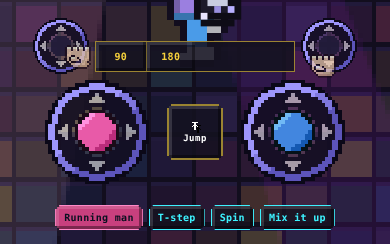
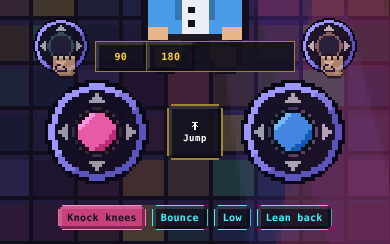
v1.82.123: seamless turns mid-dance (pose eases across facing/move changes; spin holds the steering stick's dance input)
Claude-Session: https://claude.ai/code/session_016UFqQURpRfPWWY9wcszACh

diff --git a/venue.html b/venue.html
@@ -27,15 +27,15 @@ body.chat-typing #chatLogBtn{display:none}
 </style>
 
 <script src="https://cdnjs.cloudflare.com/ajax/libs/tone/14.8.49/Tone.js"></script>
-<script src="px8.js?v=1.82.122"></script>
-<script src="tune.js?v=1.82.122"></script>
-<script src="gfx.js?v=1.82.122"></script>
-<script src="art.js?v=1.82.122"></script>
-<script src="qr.js?v=1.82.122"></script>
-<script src="voice.js?v=1.82.122"></script>
-<script src="instruments.js?v=1.82.122"></script>
-<script src="kart.js?v=1.82.122"></script>
-<script src="explain.js?v=1.82.122"></script>
+<script src="px8.js?v=1.82.123"></script>
+<script src="tune.js?v=1.82.123"></script>
+<script src="gfx.js?v=1.82.123"></script>
+<script src="art.js?v=1.82.123"></script>
+<script src="qr.js?v=1.82.123"></script>
+<script src="voice.js?v=1.82.123"></script>
+<script src="instruments.js?v=1.82.123"></script>
+<script src="kart.js?v=1.82.123"></script>
+<script src="explain.js?v=1.82.123"></script>
 <link rel="preconnect" href="https://fonts.googleapis.com"><link rel="preconnect" href="https://fonts.gstatic.com" crossorigin><link href="https://fonts.googleapis.com/css2?family=Silkscreen:wght@400;700&display=swap" rel="stylesheet">
 <style>
 *{margin:0;padding:0;box-sizing:border-box}
@@ -3538,7 +3538,7 @@ var GAME=(function(){
   var fStyle=0,fSub=0,fCtl=[0,0,0,0],fHeld=[null,null],fdBuilt=false,fHand=[null,null],fHandP=[null,null],fBack=0;   /* fBack: quarter turns from facing front (0 front, 1 right, 2 away, 3 left): 90 and 180 turn you and you stay that way. Sent as fd.b: 1 = away, 2 = right, 3 = left (1 matches the old turned-round flag) */
   var shufT=0,shufArm=true,shufSpin=false;
   window.ukFdStick=function(x,y){window.__fdStick=x===null?null:[x,y];};window.ukShuf=function(){return{spin:mySpin.on,shufSpin:shufSpin,vel:+mySpin.vel.toFixed(2),arm:shufArm,t:shufT,fd:fdState(),xy:me()?[+me().tx.toFixed(3),+me().ty.toFixed(3)]:null};};   /* tests */   /* Shuffle: stick out sideways = the T-step that way (facing front); stick to the top edge = a turnaround spin, once per push */
-  function fdState(){if(fStyle<=0)return null;var o={s:fStyle,m:fStyle===9&&(shufT||shufSpin)?1:fSub,c:fCtl.map(function(v,i){if(fStyle===9&&i===0&&!shufT)v*=0.6;return mySpin.on&&i>=2?0:Math.round(v*100);})};   /* the Shuffle reads the left stick like the games do (x0.6 unless T-stepping) */   /* while you spin, the right stick only keeps the spin going: no moves, no bounce */if(fHand[0]!==null||fHand[1]!==null)o.h=[fHand[0],fHand[1]];if(fBack)o.b=[0,2,1,3][fBack];if(mySpin.on)o.sp=[Math.round((mySpin.ang%(2*Math.PI))*100),Math.round(mySpin.vel*10)];return o;}   /* h: a hand you are holding, as an angle x100 (0 = hanging down, 157 = out to the side, 314 = straight up) */
+  function fdState(){if(fStyle<=0)return null;var o={s:fStyle,m:fStyle===9&&(shufT||shufSpin)?1:fSub,c:fCtl.map(function(v,i){if(fStyle===9&&i===0&&!shufT)v*=0.6;if(mySpin.on&&mySpin.hold&&(mySpin.left||shufSpin?i<2:i>=2))v=mySpin.hold[i];return Math.round(v*100);})};   /* while you spin, the stick steering it holds the dance where it was (no jump into or out of the spin) */   /* the Shuffle reads the left stick like the games do (x0.6 unless T-stepping) */   /* while you spin, the right stick only keeps the spin going: no moves, no bounce */if(fHand[0]!==null||fHand[1]!==null)o.h=[fHand[0],fHand[1]];if(fBack)o.b=[0,2,1,3][fBack];if(mySpin.on)o.sp=[Math.round((mySpin.ang%(2*Math.PI))*100),Math.round(mySpin.vel*10)];return o;}   /* h: a hand you are holding, as an angle x100 (0 = hanging down, 157 = out to the side, 314 = straight up) */
   function beatPos(){var b=BEAT.get(),now=performance.now();return b.known&&b.period>0?(now-b.t0)/b.period:now/500;}
   /* Move queue: line up dances and moves ahead of time. When it's your turn in the middle, they play in order and
      split your turn evenly between them; the one on now is lit. Kept on this device. */
@@ -3761,7 +3761,7 @@ var GAME=(function(){
   /* let go of a dot and it drifts back to the middle */
   /* your own spin: it starts with the button, slows down on its own, and swinging the right stick round (either way) keeps it going and speeds it up */
   var mySpin={on:false,ang:0,vel:0,pa:null,t:0};
-  function spinStart(k){var turns={spin:1,twirl:2,spinmove:1.5}[k]||1;mySpin.on=true;mySpin.ang=0;mySpin.vel=turns*6.2*1.25;mySpin.pa=null;mySpin.t=performance.now();}
+  function spinStart(k){var turns={spin:1,twirl:2,spinmove:1.5}[k]||1;mySpin.hold=fCtl.slice();mySpin.on=true;mySpin.ang=0;mySpin.vel=turns*6.2*1.25;mySpin.pa=null;mySpin.t=performance.now();}
   function spinStep(now){
     if(!mySpin.on)return;var dt=Math.min(0.1,(now-mySpin.t)/1000);mySpin.t=now;
     if(shufSpin&&fStyle!==9)shufSpin=false;
@@ -6997,7 +6997,7 @@ var FIG=(function(){
   window.ukFig=function(){var p=pos(),sg=F.segAt(P,p);return{on:on,seg:sg&&sg.k,score:score,streak:streak,pump:+pump.toFixed(2),spin:+spin.vel.toFixed(1),jump:jump&&jump.kind,best:+best.toFixed(2),card:(document.querySelector("#figUI .fgCard.on b")||{}).textContent||"",prompt:(document.querySelector("#figUI .fgPrompt b")||{}).textContent||"",plan:P&&P.segs.map(function(s){return s.k+" "+Math.round(s.t0/100)/10;})};};
   return{start:start,stop:stop,tick:tick,press:press,draw:draw,wire:wire,looks:looks,fd:fd,faceOf:faceOf,spinLook:spinLook,get on(){return on;}};
 })();
-var AVDIR=0;   /* which way avatars face when drawn (0 front, 1 right, 2 back, 3 left): the kart game turns its drivers */
+var AVDIR=0,AVBLEND={};   /* which way avatars face when drawn (0 front, 1 right, 2 back, 3 left): the kart game turns its drivers */
 /* Mars Rally (kart.js) plugs into the page here */
 KART.bind({
   me:function(){return myId&&viewers[myId]||null;},
@@ -9247,7 +9247,7 @@ var MENUMUSIC=(function(){
   window.ukMenuMusic=function(){return{ctx:ac?ac.state:null,started:started,muted:muted,vol:+vol.toFixed(3),paused:a?a.paused:null,src:a?a.src:null,menu:menuOn(),want:want(),track:LIST[cur],gain:!!gn,plain:plain,heal:heal,t:a?+a.currentTime.toFixed(1):0};};
   return{get on(){return started;}};
 })();
-var PAGE_VERSION="1.82.122",SERVER_VERSION="";
+var PAGE_VERSION="1.82.123",SERVER_VERSION="";
 /* Staying up to date. Phones (most of all a home-screen app on iPhone) keep their own copy of this page and can open an old
    one even after a new version is out. On opening, when the app comes back to the front, and from the Check for update
    button, ask the site for the page with caching off and compare its version number with ours. Newer: on first open (or
@@ -9729,6 +9729,15 @@ function drawAvatar(x,y,color,name,scale,isPerf,isPlaying,moving,dance,seed,isMe
   if(AVO){var ro=AVO.r,eo=AVO.e;
     if(ro){bob+=ro.lift||0;if(ro.armL!==undefined)armL=ro.armL;if(ro.armR!==undefined)armR=ro.armR;if(ro.legL!==undefined)legL=ro.legL;if(ro.legR!==undefined)legR=ro.legR;if(ro.mouth)mouth=true;if(ro.alL)alL=ro.alL;if(ro.alR)alR=ro.alR;if(ro.head!==undefined)hdA=ro.head;if(ro.dx)dxs+=ro.dx;if(ro.lgL)lgL=ro.lgL;if(ro.lgR)lgR=ro.lgR;if(ro.rot!==undefined)rot=ro.rot;}
     if(eo){var ek=eo.k;bob+=eo.lift;rot=rot*(1-ek)+eo.rot;if(!ro){armL=armL*(1-ek)+eo.armL*ek;armR=armR*(1-ek)+eo.armR*ek;}legL=legL*(1-ek)+eo.legL*ek;legR=legR*(1-ek)+eo.legR*ek;}}
+  /* turning mid-dance (the 90 / 180 buttons, a stick spin, walking round) or switching move: ease from the pose you were in to the
+     new one over a sixth of a second instead of jumping, so the step carries straight on through the turn. The dance's own beat is
+     shared by every facing, so it stays on the same step; this smooths only the change of view or move */
+  if(fd&&dance===4&&!isPerf){var bkey=(isMe?"me":(name||"")+"|"+(seed||0)),TB=AVBLEND[bkey]||(AVBLEND[bkey]={}),nowB=performance.now(),
+      sigB=AVDIR+"|"+fd.s+"/"+fd.m+"|"+(typeof sideMir!=="undefined"&&sideMir?1:0),curB=[armL,armR,legL,legR,lgL,lgR,bob,dxs];
+    if(TB.sig!==undefined&&TB.sig!==sigB&&TB.last&&nowB-TB.at<250){TB.from=TB.last.slice();TB.t0=nowB;}
+    TB.sig=sigB;TB.at=nowB;
+    if(TB.from&&nowB-TB.t0<170){var kB=(nowB-TB.t0)/170;kB=kB*kB*(3-2*kB);curB=curB.map(function(v,i){return TB.from[i]+(v-TB.from[i])*kB;});armL=curB[0];armR=curB[1];legL=curB[2];legR=curB[3];lgL=curB[4];lgR=curB[5];bob=curB[6];dxs=curB[7];}
+    TB.last=curB;}
   var sxv=AVO&&AVO.r&&AVO.r.sx!==undefined?AVO.r.sx:1;var sko=AVO&&AVO.sk;if(sko){bob+=sko.lift;if(sko.rot)rot=sko.rot;}      /* on the rink: up in the air, or flat out */
   /* soft elbows on freely posed arms (not the robot, not a move that shapes its own arms) */
   var bnd=null;if(flex&&alL===undefined&&alR===undefined&&ART.elbows){var fk=(name||"")+"|"+(seed||0),fm=AVFLEX[fk]||(AVFLEX[fk]={});bnd=ART.elbows(armL,armR,fm,performance.now());}
@@ -10255,7 +10264,7 @@ updHudBR();
 }
 })();
 </script>
-<script src="lab.js?v=1.82.122"></script>
+<script src="lab.js?v=1.82.123"></script>
 <script>(function(){var v=document.getElementById("venue");function ap(){if(v)v.style.filter=GFX.filter();}GFX.onChange(ap);ap();})();</script>
 </body>
 </html>

diff --git a/art.js b/art.js
@@ -2949,6 +2949,6 @@ theirs.at=id;add(100,id);ev.push({k:"take",id:id,t:t});}
       mem.t=now;mem.aL=aL;mem.aR=aR;
       bL-=Math.max(-0.55,Math.min(0.55,(mem.vL||0)*0.05));bR-=Math.max(-0.55,Math.min(0.55,(mem.vR||0)*0.05));}
     return[bL,bR];}
-  return{elbows:elbows,BALLSIM:BALLSIM,neonOf:function(L){return NEON?neonCol(L):null;},SWIM:SWIMX,BAND:BANDX,emoteIcon:emoteIcon,EMOTES:["hearts","bigheart","clap","exclaim","confused","happy","excited","wow","omg","surprised"],UI:UI,PX:PX,MOSH:MOSHX,FIG:FIG,CTF:CTF,face8:face8,get neon(){return !!NEON;},setForce:function(f){FORCE=f||null;},get forcing(){return !!FORCE;},SKI:SK,PIPE:PP,KEEPY:{TYPES:KTYPES,make:keepyMake,advance:keepyAdvance,hit:keepyHit,draw:function(g,objs,P,sc,now){objs.forEach(function(o){withAdj("prop:"+o.type,g,function(){keepyDraw(g,[o],P,sc,now);});});}},rink:function(g,G0,now,k,ice){return withAdj(ice?"prop:ice":"prop:rink",g,function(){return rink(g,G0,now,k,ice);});},rinkGeom:rinkGeom,walkStep:walkStep,walkPose:walkPose,footShadow:footShadow,keyPad:keyPad,keyPadSpot:keyPadSpot,VERSION:"1.82.122",REACTS:REACTS,REACT_MS:REACT_MS,reactPose:reactPose,reactFx:reactFx,envPose:envPose,envFx:envFx,waterY:waterY,crowdPose:crowdPose,follower:follower,primeFx:primeFx,jumboFrame:jumboFrame,crowdFx:crowdFx,crowdLift:crowdLift,CROWD_MS:CROWD_MS,CROWD_KINDS:CROWD_KINDS,fxBack:fxBack,fxFront:fxFront,FX_DEFAULT:FX_DEFAULT,DANCES:DANCES,dance:dance,danceMove:danceMove,base:danceBase,DTWEAK:DTWEAK,maker:maker,drawChar:drawChar,wormPose:function(ph){return wPose(ph,0,0);},joints:joints,LIMB:LIMB,pixText:pixText,nameTag:nameTag,botIcon:botIcon,scene:scene,sceneP:sceneP,keyboard:function(g,x,y,p,l,c){return withAdj("prop:keyboard",g,function(){var r=PAINT.holes("keyboard",g,x,y,p,function(gg){return keyboard(PAINT.replaced("keyboard")?PAINT.dummy():gg,x,y,p,l,c);});PAINT.at(g,"keyboard",x,y,p);return r;});},micStand:function(g,x,y,p){return withAdj("prop:mic",g,function(){var r=PAINT.holes("mic",g,x,y,p,function(gg){return micStand(PAINT.replaced("mic")?PAINT.dummy():gg,x,y,p);});PAINT.at(g,"mic",x,y,p);return r;});},reloadAdj:adjLoad,paint:PAINT,isolate:function(p){ISO=p||null;},hideChars:function(b){HIDECHAR=!!b;},noAdj:function(b){NOADJ=!!b;},withAdj:withAdj,
+  return{elbows:elbows,BALLSIM:BALLSIM,neonOf:function(L){return NEON?neonCol(L):null;},SWIM:SWIMX,BAND:BANDX,emoteIcon:emoteIcon,EMOTES:["hearts","bigheart","clap","exclaim","confused","happy","excited","wow","omg","surprised"],UI:UI,PX:PX,MOSH:MOSHX,FIG:FIG,CTF:CTF,face8:face8,get neon(){return !!NEON;},setForce:function(f){FORCE=f||null;},get forcing(){return !!FORCE;},SKI:SK,PIPE:PP,KEEPY:{TYPES:KTYPES,make:keepyMake,advance:keepyAdvance,hit:keepyHit,draw:function(g,objs,P,sc,now){objs.forEach(function(o){withAdj("prop:"+o.type,g,function(){keepyDraw(g,[o],P,sc,now);});});}},rink:function(g,G0,now,k,ice){return withAdj(ice?"prop:ice":"prop:rink",g,function(){return rink(g,G0,now,k,ice);});},rinkGeom:rinkGeom,walkStep:walkStep,walkPose:walkPose,footShadow:footShadow,keyPad:keyPad,keyPadSpot:keyPadSpot,VERSION:"1.82.123",REACTS:REACTS,REACT_MS:REACT_MS,reactPose:reactPose,reactFx:reactFx,envPose:envPose,envFx:envFx,waterY:waterY,crowdPose:crowdPose,follower:follower,primeFx:primeFx,jumboFrame:jumboFrame,crowdFx:crowdFx,crowdLift:crowdLift,CROWD_MS:CROWD_MS,CROWD_KINDS:CROWD_KINDS,fxBack:fxBack,fxFront:fxFront,FX_DEFAULT:FX_DEFAULT,DANCES:DANCES,dance:dance,danceMove:danceMove,base:danceBase,DTWEAK:DTWEAK,maker:maker,drawChar:drawChar,wormPose:function(ph){return wPose(ph,0,0);},joints:joints,LIMB:LIMB,pixText:pixText,nameTag:nameTag,botIcon:botIcon,scene:scene,sceneP:sceneP,keyboard:function(g,x,y,p,l,c){return withAdj("prop:keyboard",g,function(){var r=PAINT.holes("keyboard",g,x,y,p,function(gg){return keyboard(PAINT.replaced("keyboard")?PAINT.dummy():gg,x,y,p,l,c);});PAINT.at(g,"keyboard",x,y,p);return r;});},micStand:function(g,x,y,p){return withAdj("prop:mic",g,function(){var r=PAINT.holes("mic",g,x,y,p,function(gg){return micStand(PAINT.replaced("mic")?PAINT.dummy():gg,x,y,p);});PAINT.at(g,"mic",x,y,p);return r;});},reloadAdj:adjLoad,paint:PAINT,isolate:function(p){ISO=p||null;},hideChars:function(b){HIDECHAR=!!b;},noAdj:function(b){NOADJ=!!b;},withAdj:withAdj,
     looks:{OPTS:OPTS,KEYS:KEYS,count:count,pack:pack,unpack:unpack,random:random,fromColor:fromColor,topColor:topColor,colOf:colOf,SKIN:SKIN,HAIRCOL:HAIRCOL,CLOTH:CLOTH},shade:shade};
 })();

diff --git a/index.html b/index.html
@@ -28,13 +28,13 @@
 </style>
 
 <script src="https://cdnjs.cloudflare.com/ajax/libs/tone/14.8.49/Tone.js"></script>
-<script src="gfx.js?v=1.82.122"></script>
-<script src="px8.js?v=1.82.122"></script>
-<script src="art.js?v=1.82.122"></script>
-<script src="qr.js?v=1.82.122"></script>
-<script src="voice.js?v=1.82.122"></script>
-<script src="instruments.js?v=1.82.122"></script>
-<script src="kart.js?v=1.82.122"></script>
+<script src="gfx.js?v=1.82.123"></script>
+<script src="px8.js?v=1.82.123"></script>
+<script src="art.js?v=1.82.123"></script>
+<script src="qr.js?v=1.82.123"></script>
+<script src="voice.js?v=1.82.123"></script>
+<script src="instruments.js?v=1.82.123"></script>
+<script src="kart.js?v=1.82.123"></script>
 <link rel="preconnect" href="https://fonts.googleapis.com"><link rel="preconnect" href="https://fonts.gstatic.com" crossorigin><link href="https://fonts.googleapis.com/css2?family=Silkscreen:wght@400;700&display=swap" rel="stylesheet">
 <style>
 *{margin:0;padding:0;box-sizing:border-box}
@@ -5003,7 +5003,7 @@ document.getElementById("liveStop").onclick=function(){endLive();};
 /* your own playing, for the lights that follow it (Show tab), in your previews and stage view */
 /* the version label at the bottom of the sidebar: this page's version, a warning if a cached script is older,
    and the server's version once you're live (so you can tell Render has the new build) */
-var PAGE_VERSION="1.82.122",SERVER_VERSION="";
+var PAGE_VERSION="1.82.123",SERVER_VERSION="";
 /* Staying up to date. Phones (most of all a home-screen app on iPhone) keep their own copy of this page and can open an old
    one even after a new version is out. On opening, when the app comes back to the front, and from the Check for update
    button, ask the site for the page with caching off and compare its version number with ours. Newer: on first open (or

diff --git a/instruments.js b/instruments.js
@@ -541,5 +541,5 @@
       if(s2t.on&&(st.now||Date.now())<s2t.t0)s2t.on=false;
       draw(g,x+X[i],y+Y[i],p*S[i],ART.looks.random(101+i*17),kinds[i],s2t);}
   }
-  ART.INST={section:section,drawBand:drawBand,kindOf:kindOf,draw:function(g,x,y,p,look,kind,st){CUR_LOOK=look;return ART.withAdj("inst:"+kind,g,function(){var r=ART.paint.holes?ART.paint.holes("inst:"+kind,g,x,y,p,function(gg){return draw(ART.paint.replaced("inst:"+kind)?ART.paint.dummy():gg,x,y,p,look,kind,st);}):draw(g,x,y,p,look,kind,st);ART.paint.at(g,"inst:"+kind,x,y,p);return r;});},KINDS:KINDS,VERSION:"1.82.122"};
+  ART.INST={section:section,drawBand:drawBand,kindOf:kindOf,draw:function(g,x,y,p,look,kind,st){CUR_LOOK=look;return ART.withAdj("inst:"+kind,g,function(){var r=ART.paint.holes?ART.paint.holes("inst:"+kind,g,x,y,p,function(gg){return draw(ART.paint.replaced("inst:"+kind)?ART.paint.dummy():gg,x,y,p,look,kind,st);}):draw(g,x,y,p,look,kind,st);ART.paint.at(g,"inst:"+kind,x,y,p);return r;});},KINDS:KINDS,VERSION:"1.82.123"};
 })();

diff --git a/server/server.js b/server/server.js
@@ -508,7 +508,7 @@ var TUG_AT = 0, TUG_MS = 10000;
 /* voice between songs: how many people can talk at once in a room (everyone connects to everyone, so keep it small) */
 var VOICE_MAX = +process.env.VOICE_MAX || 8;   /* talkers (mic on) at once; anyone can listen */   /* the walls meet right on the drop (the charge starts 0.8 s before it) */
 /* the build, shown at the bottom of both pages so you can tell which version is running (bump it with each release) */
-var VERSION = "1.82.122";
+var VERSION = "1.82.123";
 /* where this server runs: Render sets RENDER=true; anything else is self-hosted (UK_HOST can name it) */
 var HOSTED = process.env.RENDER ? "render" : "self";
 var HOST_NAME = String(process.env.UK_HOST || "").slice(0, 40);

diff --git a/gfx.html b/gfx.html
@@ -103,9 +103,9 @@ button.pe{background:#1f5f6e;box-shadow:inset -3px -3px 0 #0f3640,inset 3px 3px 
    <div class="r"><button class="go" id="bCopy">Copy changes</button><button id="bTxt">✎ Text</button><button id="bApply">Apply pasted</button><button id="bReset">Reset everything</button></div></div>
  </div>
 </div>
-<script src="gfx.js?v=1.82.122"></script>
-<script src="art.js?v=1.82.122"></script>
-<script src="instruments.js?v=1.82.122"></script>
+<script src="gfx.js?v=1.82.123"></script>
+<script src="art.js?v=1.82.123"></script>
+<script src="instruments.js?v=1.82.123"></script>
 <script>
 (function(){
 /* pixel look: no emoji in any label (the lab writes a lot of its own text, so strip them as they appear) */

diff --git a/track.html b/track.html
@@ -4,8 +4,8 @@
 <meta charset="UTF-8">
 <meta name="viewport" content="width=device-width, initial-scale=1.0, user-scalable=no">
 <title>Track builder · Unholy Keys</title>
-<script src="art.js?v=1.82.122"></script>
-<script src="kart.js?v=1.82.122"></script>
+<script src="art.js?v=1.82.123"></script>
+<script src="kart.js?v=1.82.123"></script>
 <style>
 *{box-sizing:border-box;margin:0;padding:0}
 html,body{height:100%;background:#07041a;color:#e8e4f4;font-family:system-ui,sans-serif;overflow:hidden;-webkit-tap-highlight-color:transparent}

diff --git a/ctf.html b/ctf.html
@@ -4,7 +4,7 @@
 <meta charset="UTF-8">
 <meta name="viewport" content="width=device-width, initial-scale=1.0, user-scalable=no">
 <title>Capture the flag &amp; Kart flag designer · Unholy Keys</title>
-<script src="art.js?v=1.82.122"></script>
+<script src="art.js?v=1.82.123"></script>
 <style>
 *{box-sizing:border-box;margin:0;padding:0}
 html,body{height:100%;background:#07041a;color:#e8e4f4;font-family:system-ui,sans-serif;overflow:hidden;-webkit-tap-highlight-color:transparent}

diff --git a/ski.html b/ski.html
@@ -4,7 +4,7 @@
 <meta charset="UTF-8">
 <meta name="viewport" content="width=device-width, initial-scale=1.0, user-scalable=no">
 <title>Ski designer · Unholy Keys</title>
-<script src="art.js?v=1.82.122"></script>
+<script src="art.js?v=1.82.123"></script>
 <style>
 *{box-sizing:border-box;margin:0;padding:0}
 html,body{height:100%;background:#07041a;color:#e8e4f4;font-family:system-ui,sans-serif;overflow:hidden;-webkit-tap-highlight-color:transparent}

diff --git a/TESTING.md b/TESTING.md
@@ -1688,6 +1688,18 @@ Needs a Render redeploy (server.js changed).
 - The panel background is more see-through (and no longer blurred), so the dance floor and the other dancers show through behind the lanes.
 - Check: play a round to a big combo/score: the panel stays put. Dancers and floor are visible behind it.
 
+## v1.82.123 — Turning mid-dance carries the step straight on
+
+Every facing already shares the dance's beat, so the step was in time. But the view or move changing used to jump to the new pose. Now:
+- **Any turn or switch eases from the old pose to the new one over about a sixth of a second:** the 90 / 180 buttons, a stick spin, turning round while walking, or switching dance or move. Arms and legs carry on from where they were and swing into the new view. It only smooths the change itself; the dance's own sharp hits aren't softened.
+- **Spins hold the dance where it was:** the stick steering the spin (the left one for a stick-circle spin) used to snap that part of the dance to neutral the moment you started spinning, and back when you stopped. Now it keeps its pre-spin value until the spin ends.
+- A side-on move flipping sides (the moonwalk glide, for one) no longer jumps sideways.
+
+1. Free dance, Running man: walk right, then left. The turn reads as one motion, with no pop.
+2. Tap 90 and 180 mid-step: the body turns and the limbs carry on.
+3. Circle the left stick to spin and let go: no jump into or out of the spin, and the dance picks straight up.
+4. Switch between moves (Classic → Fast → Moonwalk): each change eases in.
+
 ## v1.82.122 — The Shuffle spins from a stick circle too
 
 Circling the left stick now works in the Shuffle as well: a full circle (or pushing to the top edge, as before) starts the T-step stomp spin, and it spins the way you're circling: clockwise right, anticlockwise left. Keep circling to keep it going; let go to finish the turn.
